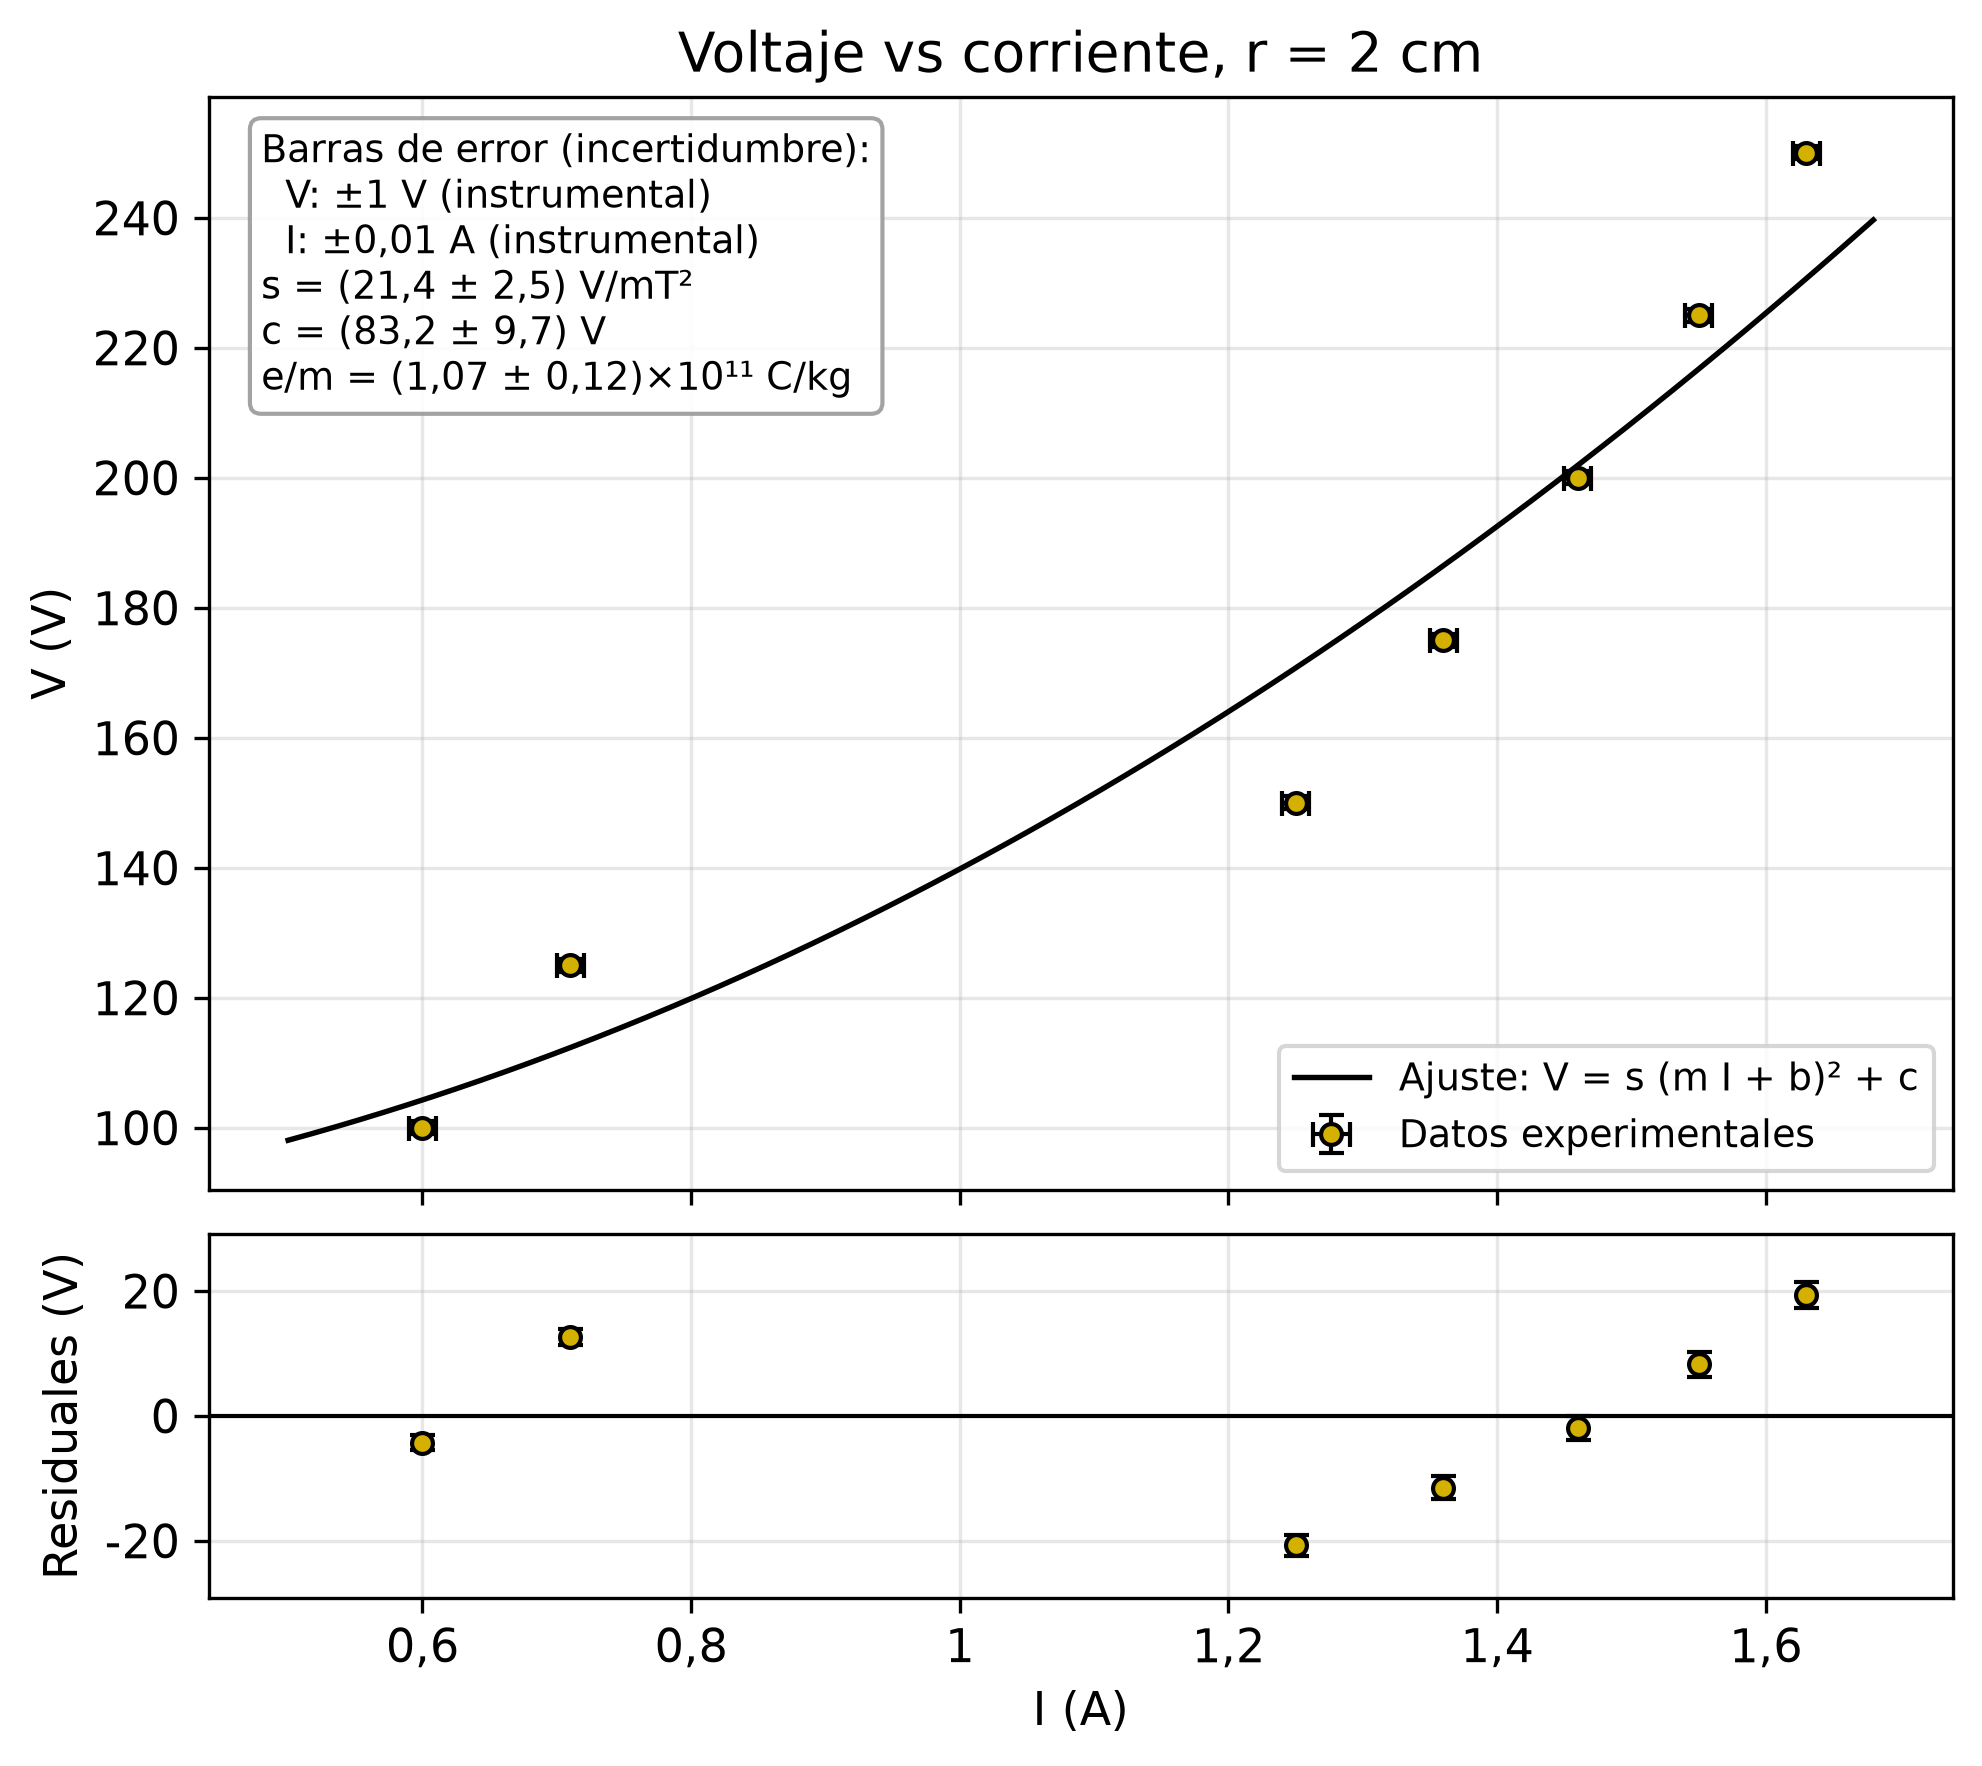
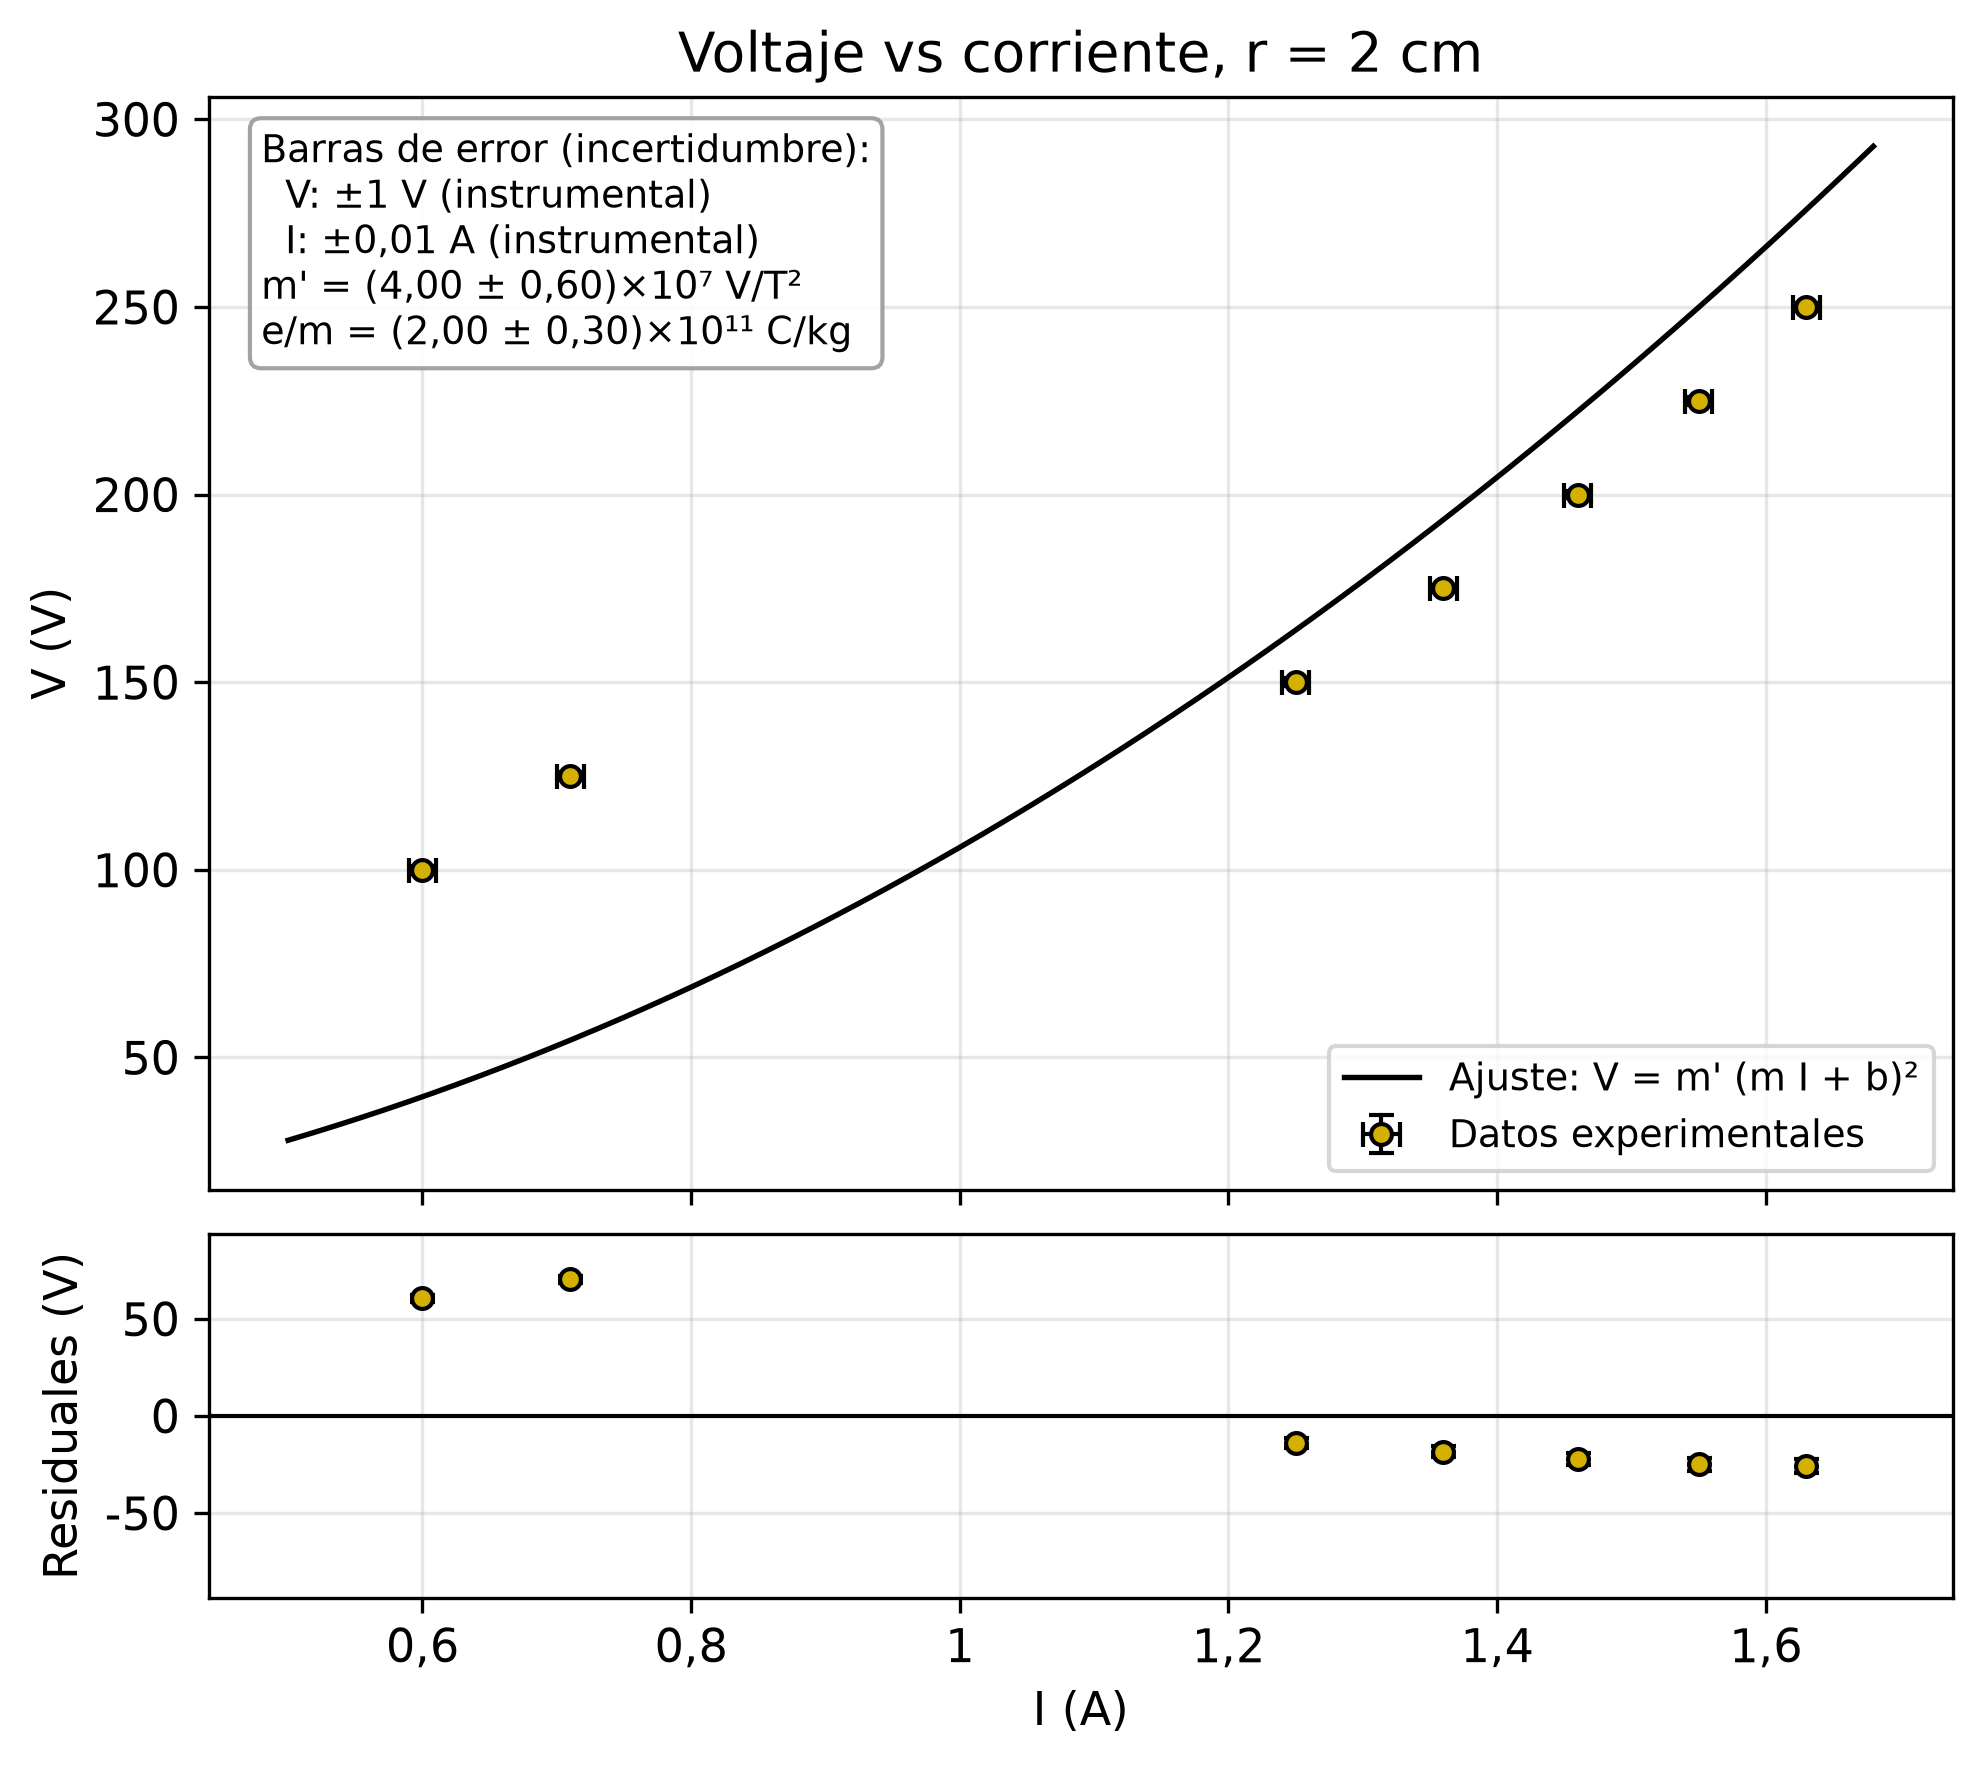
Ajuste V = m'B² por el origen, B² en T², tabla resumen de e/m con promedio ponderado

diff --git a/analisis.py b/analisis.py
@@ -3,7 +3,8 @@
 Genera:
   figuras/B_vs_I.png              caracterización de la bobina (B = m I + b)
   figuras/V_vs_I_r{r}cm.png       V vs I para cada radio + curva del ajuste
-  figuras/V_vs_B2_r{r}cm.png      V vs B^2 para cada radio (e/m = 2 s / r^2)
+  figuras/V_vs_B2_r{r}cm.png      V vs B^2 para cada radio, V = m' B^2
+                                  (e/m = 2 m' / r^2)
   figuras/e_m_por_radio.png       comparación de e/m para cada radio
   resultados/*.csv, *.tex         tablas con B calculado y su incertidumbre
 """
@@ -102,6 +103,28 @@ def ajuste_lineal(x, y, sx, sy):
     return a, c, cov * max(chi2_red, 1.0), chi2_red, nu
 
 
+def ajuste_origen(x, y, sx, sy):
+    """Regresión ponderada por el origen y = a x con errores en x e y.
+
+    Igual que `ajuste_lineal` (varianza efectiva), pero sin intercepto.
+    """
+    x, y = np.asarray(x, float), np.asarray(y, float)
+    sx = np.broadcast_to(sx, x.shape)
+    sy = np.broadcast_to(sy, y.shape)
+    a = np.sum(x * y) / np.sum(x * x)
+    for _ in range(50):
+        w = 1 / (sy**2 + (a * sx) ** 2)
+        a_n = np.sum(w * x * y) / np.sum(w * x * x)
+        if np.isclose(a_n, a, rtol=1e-12):
+            a = a_n
+            break
+        a = a_n
+    nu = len(x) - 1
+    chi2_red = np.sum(w * (y - a * x) ** 2) / nu
+    sa = np.sqrt(max(chi2_red, 1.0) / np.sum(w * x * x))
+    return a, sa, chi2_red, nu
+
+
 def caja(ax, texto, loc="upper left"):
     pos = {"upper left": (0.03, 0.97, "left", "top"),
            "lower left": (0.03, 0.04, "left", "bottom"),
@@ -185,18 +208,17 @@ for r, I_r in RADIOS.items():
     B, sB = campo(Ir)                  # mT
     B2, sB2 = B**2, 2 * B * sB         # mT²
 
-    # V = s B² + c   (B en mT, s en V/mT²)
-    s, c, cov_sc, chi2, nu = ajuste_lineal(
+    # V = m' B²  (por el origen; B² en mT² = 10⁻⁶ T², s en V/mT²)
+    s, ss, chi2, nu = ajuste_origen(
         B2[usar_v], Vr[usar_v], sB2[usar_v], np.full(usar_v.sum(), SIGMA_V))
-    ss, sc = np.sqrt(np.diag(cov_sc))
-    r2 = np.corrcoef(B2[usar_v], Vr[usar_v])[0, 1] ** 2
 
-    # e/m = 2 s / r²  (s pasado a V/T²)
+    # e/m = 2 m' / r²  con m' en V/T²
     s_T = s * 1e6
     ss_T = ss * 1e6
     em = 2 * s_T / r**2
     sem = np.sqrt((2 / r**2 * ss_T) ** 2 + (4 * s_T / r**3 * SIGMA_R) ** 2)
-    resumen.append((r, s, ss, c, sc, chi2, r2, em, sem))
+    resumen.append((r, s_T, ss_T, chi2, em, sem))
+    mp_txt = fmt_sci(s_T, ss_T)[0]
 
     for vi, ii, bi, sbi, b2i, sb2i, u in zip(Vr, Ir, B, sB, B2, sB2, usar_v):
         csv_filas.append(f"{r},{vi:g},{SIGMA_V:g},{ii:g},{SIGMA_I:g},"
@@ -227,17 +249,16 @@ for r, I_r in RADIOS.items():
                     elinewidth=1, capsize=3, label="Excluidos del ajuste")
     imin = max(0.0, Ir.min() - 0.1)
     xx = np.linspace(imin, Ir.max() + 0.05, 200)
-    ax.plot(xx, s * (m * xx + b) ** 2 + c, "-", color="k", lw=1.3,
-            label="Ajuste: V = s (m I + b)² + c")
+    ax.plot(xx, s * (m * xx + b) ** 2, "-", color="k", lw=1.3,
+            label="Ajuste: V = m' (m I + b)²")
     ax.set_ylabel("V (V)")
     ax.set_title(f"Voltaje vs corriente, r = {rcm} cm")
     ax.legend(loc="lower right", fontsize=9)
     caja(ax,
          (texto_err + f"  I: ±{SIGMA_I:g} A (instrumental)\n"
-          f"s = {fmt_pm(s, ss)} V/mT²\n"
-          f"c = {fmt_pm(c, sc)} V\n"
+          f"m' = {mp_txt} V/T²\n"
           f"e/m = {em_txt} C/kg").replace(".", ","))
-    res = Vr - (s * (m * Ir + b) ** 2 + c)
+    res = Vr - s * (m * Ir + b) ** 2
     s_eff = np.sqrt(SIGMA_V**2 + (2 * s * (m * Ir + b) * m * SIGMA_I) ** 2)
     axr.axhline(0, color="k", lw=1)
     axr.errorbar(Ir[usar_v], res[usar_v], yerr=s_eff[usar_v], fmt="o", ms=5,
@@ -258,23 +279,24 @@ for r, I_r in RADIOS.items():
     ax.errorbar(B2[usar_v], Vr[usar_v], xerr=sB2[usar_v], yerr=SIGMA_V,
                 fmt="o", ms=5, color=col, mec="k", ecolor="k", elinewidth=1,
                 capsize=3, label="Datos experimentales")
-    xx = np.linspace(B2[usar_v].min() * 0.9, B2[usar_v].max() * 1.05, 100)
-    ax.plot(xx, s * xx + c, "-", color="k", lw=1.3,
-            label="Ajuste lineal: V = s B² + c")
+    xx = np.linspace(0, B2[usar_v].max() * 1.05, 100)
+    ax.plot(xx, s * xx, "-", color="k", lw=1.3,
+            label="Ajuste lineal: V = m' B²")
     ax.set_ylabel("V (V)")
+    ax.set_xlim(0, None)
+    ax.set_ylim(0, None)
     ax.set_title(f"Voltaje vs B², r = {rcm} cm")
     ax.legend(loc="lower right", fontsize=9)
     caja(ax,
          (texto_err + "  B²: 2B·σ_B (propagada desde B = m I + b)\n"
-          f"s = {fmt_pm(s, ss)} V/mT²\n"
-          f"c = {fmt_pm(c, sc)} V\n"
-          f"e/m = 2s/r² = {em_txt} C/kg").replace(".", ","))
-    res = Vr - (s * B2 + c)
+          f"m' = {mp_txt} V/T²\n"
+          f"e/m = 2m'/r² = {em_txt} C/kg").replace(".", ","))
+    res = Vr - s * B2
     s_eff = np.sqrt(SIGMA_V**2 + (s * sB2) ** 2)
     axr.axhline(0, color="k", lw=1)
     axr.errorbar(B2[usar_v], res[usar_v], yerr=s_eff[usar_v], fmt="o", ms=5,
                  color=col, mec="k", ecolor="k", elinewidth=1, capsize=3)
-    axr.set_xlabel("B² (mT²)")
+    axr.set_xlabel("B² (×10⁻⁶ T²)")
     axr.set_ylabel("Residuales (V)")
     lim = 1.3 * np.max(np.abs(res[usar_v]) + s_eff[usar_v])
     axr.set_ylim(-lim, lim)
@@ -287,8 +309,8 @@ for r, I_r in RADIOS.items():
 # 3. e/m por radio y promedio ponderado
 # --------------------------------------------------------------------------
 radios = np.array([x[0] for x in resumen])
-ems = np.array([x[7] for x in resumen])
-sems = np.array([x[8] for x in resumen])
+ems = np.array([x[4] for x in resumen])
+sems = np.array([x[5] for x in resumen])
 w = 1 / sems**2
 em_prom = np.sum(w * ems) / np.sum(w)
 sem_prom = 1 / np.sqrt(np.sum(w))
@@ -308,11 +330,12 @@ ax.set_xlabel("Radio r (cm)")
 ax.set_ylabel("e/m (×10¹¹ C/kg)")
 ax.set_xticks(radios * 100)
 ax.set_xlim(1, 9)
-ax.set_ylim(0, 2.2)
+ax.set_ylim(0, 2.6)
 ax.set_title("Relación carga/masa obtenida para cada radio")
 ax.legend(fontsize=9, loc="upper right")
 caja(ax, "Barras de error: incertidumbre de e/m propagada\n"
-         "desde la pendiente s del ajuste V vs B²", loc="lower left")
+         "desde la pendiente m' del ajuste V vs B²\n"
+         "Promedio ponderado: pesos w = 1/σ²", loc="lower left")
 con_coma(ax)
 fig.savefig(FIG / "e_m_por_radio.png")
 plt.close(fig)
@@ -333,7 +356,7 @@ tex = [
     "\\label{tab:campo}",
     "\\begin{tabular}{ccccc}",
     "\\toprule",
-    "$r$ (cm) & $V$ (V) & $I$ (A) & $B$ (mT) & $B^2$ (mT$^2$) \\\\",
+    "$r$ (cm) & $V$ (V) & $I$ (A) & $B$ (mT) & $B^2$ ($10^{-6}$ T$^2$) \\\\",
     "\\midrule",
     *tex_filas[:-1],
     "\\bottomrule",
@@ -342,6 +365,40 @@ tex = [
 ]
 (RES / "tabla_campo.tex").write_text("\n".join(tex) + "\n")
 
+
+def tex_sci(valor, error):
+    _, (v, e, exp) = fmt_sci(valor, error)
+    return f"$({v} \\pm {e})\\times 10^{{{exp}}}$"
+
+
+filas_res = []
+for r, s_T, ss_T, chi2, em, sem in resumen:
+    err = abs(em - E_M_TEORICO) / E_M_TEORICO * 100
+    filas_res.append(f"{r * 100:.0f} & {tex_sci(s_T, ss_T)} & "
+                     f"{tex_sci(em, sem)} & {err:.1f} \\\\".replace(".", ","))
+tex_res = [
+    "\\begin{table}[H]",
+    "\\centering",
+    "\\caption{Pendiente $m'$ del ajuste $V = m'B^2$ y relación carga/masa "
+    "$e/m_e = 2m'/r^2$ para cada radio. El promedio se reporta como promedio "
+    "ponderado con pesos $w_i = 1/\\sigma_i^2$ y su incertidumbre como "
+    "$\\sigma = 1/\\sqrt{\\sum_i w_i}$. Valor teórico: "
+    "$1,7588\\times 10^{11}$ C/kg.}",
+    "\\label{tab:resumen_em}",
+    "\\begin{tabular}{cccc}",
+    "\\toprule",
+    "$r$ (cm) & $m'$ (V/T$^2$) & $e/m_e$ (C/kg) & Error (\\%) \\\\",
+    "\\midrule",
+    *filas_res,
+    "\\midrule",
+    f"\\multicolumn{{2}}{{c}}{{Promedio ponderado}} & "
+    f"{tex_sci(em_prom, sem_prom)} & {err_rel:.1f} \\\\".replace(".", ","),
+    "\\bottomrule",
+    "\\end{tabular}",
+    "\\end{table}",
+]
+(RES / "tabla_resumen_em.tex").write_text("\n".join(tex_res) + "\n")
+
 lineas = [
     "CARACTERIZACIÓN DE LA BOBINA  (B = m I + b)",
     f"  m = {fmt_pm(m, sm)} mT/A",
@@ -349,14 +406,14 @@ lineas = [
     f"  cov(m,b) = {cov_mb[0, 1]:.3e} mT²/A",
     f"  R² = {r2_cal:.5f}   chi²_red = {chi2_cal:.3f}",
     "",
-    "AJUSTES V = s B² + c   ->   e/m = 2 s / r²",
+    "AJUSTES V = m' B²  (por el origen)   ->   e/m = 2 m' / r²",
 ]
-for r, s, ss, c, sc, chi2, r2, em, sem in resumen:
+for r, s_T, ss_T, chi2, em, sem in resumen:
+    err = abs(em - E_M_TEORICO) / E_M_TEORICO * 100
     lineas += [
         f"  r = {r * 100:.0f} cm:",
-        f"    s = {fmt_pm(s, ss)} V/mT²   c = {fmt_pm(c, sc)} V",
-        f"    R² = {r2:.4f}   chi²_red = {chi2:.2f}",
-        f"    e/m = {fmt_sci(em, sem)[0]} C/kg",
+        f"    m' = {fmt_sci(s_T, ss_T)[0]} V/T²   chi²_red = {chi2:.2f}",
+        f"    e/m = {fmt_sci(em, sem)[0]} C/kg   error = {err:.1f} %",
     ]
 lineas += [
     "",

diff --git a/resultados/tabla_resumen_em.tex b/resultados/tabla_resumen_em.tex
@@ -1,0 +1,17 @@
+\begin{table}[H]
+\centering
+\caption{Pendiente $m'$ del ajuste $V = m'B^2$ y relación carga/masa $e/m_e = 2m'/r^2$ para cada radio. El promedio se reporta como promedio ponderado con pesos $w_i = 1/\sigma_i^2$ y su incertidumbre como $\sigma = 1/\sqrt{\sum_i w_i}$. Valor teórico: $1,7588\times 10^{11}$ C/kg.}
+\label{tab:resumen_em}
+\begin{tabular}{cccc}
+\toprule
+$r$ (cm) & $m'$ (V/T$^2$) & $e/m_e$ (C/kg) & Error (\%) \\
+\midrule
+2 & $(4,00 \pm 0,60)\times 10^{7}$ & $(2,00 \pm 0,30)\times 10^{11}$ & 13,8 \\
+4 & $(1,01 \pm 0,27)\times 10^{8}$ & $(1,26 \pm 0,33)\times 10^{11}$ & 28,1 \\
+6 & $(1,638 \pm 0,054)\times 10^{8}$ & $(9,10 \pm 0,30)\times 10^{10}$ & 48,3 \\
+8 & $(2,539 \pm 0,061)\times 10^{8}$ & $(7,93 \pm 0,19)\times 10^{10}$ & 54,9 \\
+\midrule
+\multicolumn{2}{c}{Promedio ponderado} & $(8,32 \pm 0,16)\times 10^{10}$ & 52,7 \\
+\bottomrule
+\end{tabular}
+\end{table}

diff --git a/resultados/tabla_campo.tex b/resultados/tabla_campo.tex
@@ -4,7 +4,7 @@
 \label{tab:campo}
 \begin{tabular}{ccccc}
 \toprule
-$r$ (cm) & $V$ (V) & $I$ (A) & $B$ (mT) & $B^2$ (mT$^2$) \\
+$r$ (cm) & $V$ (V) & $I$ (A) & $B$ (mT) & $B^2$ ($10^{-6}$ T$^2$) \\
 \midrule
 2 & 100 $\pm$ 1 & 0,60 $\pm$ 0,01 & 0,99 $\pm$ 0,02 & 0,99 $\pm$ 0,03 \\
 2 & 125 $\pm$ 1 & 0,71 $\pm$ 0,01 & 1,17 $\pm$ 0,02 & 1,36 $\pm$ 0,04 \\

diff --git a/README.md b/README.md
@@ -16,8 +16,9 @@ Los datos están en `datos.py`. Las figuras quedan en `figuras/` y las tablas/re
 1. **Caracterización de la bobina**: regresión lineal `B = m I + b` con los datos de campo (ya corregidos por el campo ambiental `B_amb = (0,04 ± 0,01) mT`).
 2. **Campo para cada punto**: `B = m I + b`, con incertidumbre propagada
    `σ_B² = I² σ_m² + σ_b² + 2 I cov(m,b) + m² σ_I²` y `σ_{B²} = 2 B σ_B`.
-3. **Para cada radio**: regresión `V = s B² + c` (gráficas V vs B² y V vs I con la curva `V = s (m I + b)² + c`).
-4. **Relación carga/masa**: `e/m = 2 s / r²`, con `σ_{e/m}² = (2 σ_s / r²)² + (4 s σ_r / r³)²`.
+3. **Para cada radio**: regresión por el origen `V = m' B²` (gráficas V vs B² y V vs I con la curva `V = m' (m I + b)²`).
+4. **Relación carga/masa**: `e/m = 2 m' / r²`, con `σ_{e/m}² = (2 σ_{m'} / r²)² + (4 m' σ_r / r³)²`.
+5. **Promedio**: promedio ponderado con pesos `w_i = 1/σ_i²` e incertidumbre `σ = 1/√(Σ w_i)` (no la desviación estándar). Tabla en `resultados/tabla_resumen_em.tex`.
 
 Las regresiones usan mínimos cuadrados ponderados con varianza efectiva
 (`σ_ef² = σ_y² + (a σ_x)²`) para considerar las incertidumbres en ambos ejes.
